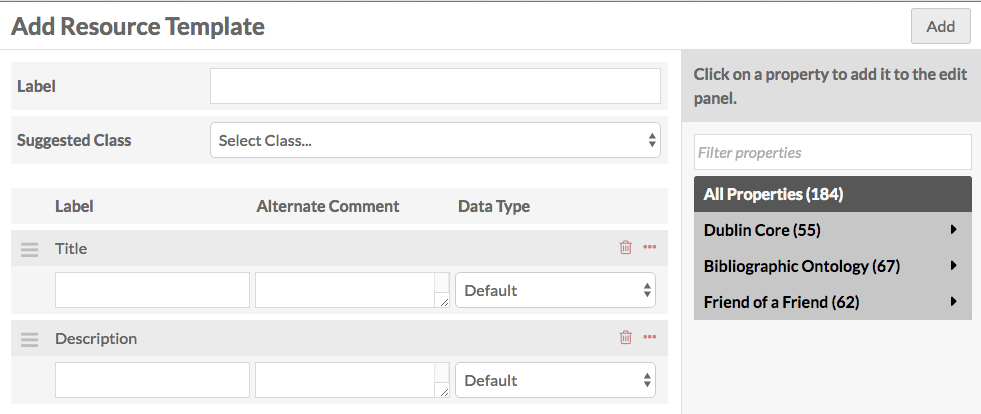
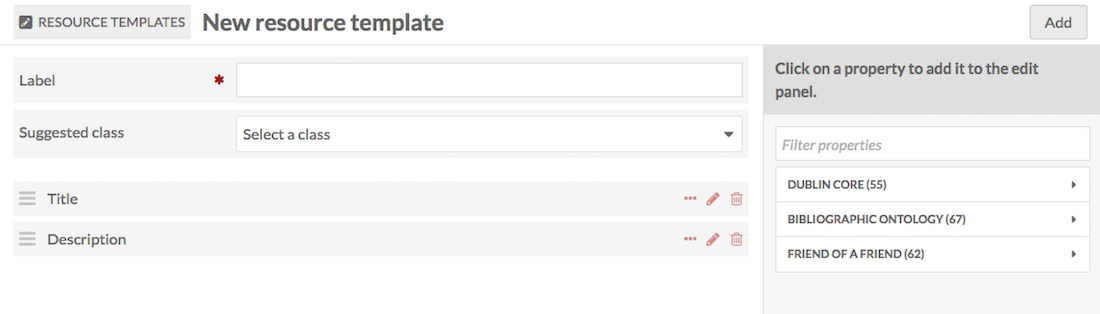
resource template update
updating images and instructions to reflect changes in how templates
are edited

diff --git a/content/resource-template.md b/content/resource-template.md
@@ -22,22 +22,35 @@ All Omeka S installations include a Base Resource template which maps to the met
 The Base Resource template contains the following Dublin Core fields: Title; Rights; Type; Creator; Date; Description; Format; Language; Spatial Coverage (Place); Publisher; Alternative Title: Contributor; Extent; Identifier; Relation; Is Replaced By; Replaces; RightsHolder; Subject; Temporal Coverage.
 
 ## Create a resource template
-1. From the Resource Templates tab in the Admin Dashboard, click the *Add new resource template* button.
-1. In the Label property, type the label for your new template. This will be the text displayed in the dropdown for Resource Templates when creating an item, so be sure that the label is clear.
-1. If desired, select a class to associate with the template.
-1. Add properties from the list of vocabularies in the menu on the right side of the screen. You can filter properties in the text box or select from a specific vocabulary using the arrows to the right of the vocabulary names. 
-  - The Dublin Core properties *Title* and *Description* are added to every Resource Template by default. You can use these or delete as desired.
-1. If desired, add an alternate label and alternate comment for the element (see below)
-1. Select a data type for the element: Literal, URI, or Resource. Whichever you choose will be automatically loaded once someone selects that Resource Type and they will only be able to use **this data type** for the element when using this Resource Template.
-  - Literal: text and/or html imput
-  - URI: a link with label
-  - Resource: either an existing Item or Item Set in the Omeka S install
+From the Resource Templates tab in the Admin Dashboard, click the *Add new resource template* button.
 
-![The Add Resource Template page, with fields for title, class, and properties Title and Description pre-loaded]({{site.url}}{{site.baseurl}}/content/contentfiles/templates_add.png)
+The New resource template page will load with options for Label, suggested class, and the properties *Title* (dcterms:title) and *Description* (dcterms:description)
 
 ![The Add Resource Template page, with fields for title, class, and properties Title and Description pre-loaded](/content/contentfiles/templates_add.png)
 
-You can change the display label of the property when the resource template is used by entering the text you want to appear in the *Alternate Label* field for each property. You can also add alternate comments for the property. This will change the text under the property name when users are creating items using your Resource Template. 
+1. In the Label property, type the label for your new template. This will be the text displayed in the dropdown for Resource Templates when creating an item, so be sure that the label is clear.
+1. If desired, select a class to associate with the template.
+1. Add properties from the list of vocabularies in the menu on the right side of the screen. You can filter properties in the text box or select from a specific vocabulary using the arrows to the right of the vocabulary names. 
+1. If desired, modify the property (see Property options, below)
+
+### Property options
+You can modify the display label, comment on the label, set a property as required, and set the default data type for each property in your template.
+
+To do this, click the edit (pencil) icon in the row for the property you wish to modify. This will open a drawer on the right side of the screen with the ability to edit the properties:
+
+**Label**  
+Change the displayed label of the property that appears when the template is applied to an item by entering the text you want to appear in the *Alternate Label* field for each property.
+
+**Comment**  
+Add alternate comments for the property in the field *Alternate* in this section.. This will change the text under the property name when users are creating items using your Resource Template.
+ 
+**Other options**  
+Use the checkbox to determine whether a property is required when the template is in use.
+
+Using the dropdown, you can designate a  data type for the property: Literal, URI, or Resource. Whichever you choose will be automatically loaded once someone selects that Resource Type and they will only be able to use this data type for the element when using this Resource Template.  
+  - Literal: text and/or html imput
+  - URI: a link with label
+  - Resource: either an existing Item or Item Set in the Omeka S install.
 
 In the image below, from an Add Item view, the template has been written so that the Description property is labeled as Gist with an new comment (the default is “an account of the resource”): 
 
